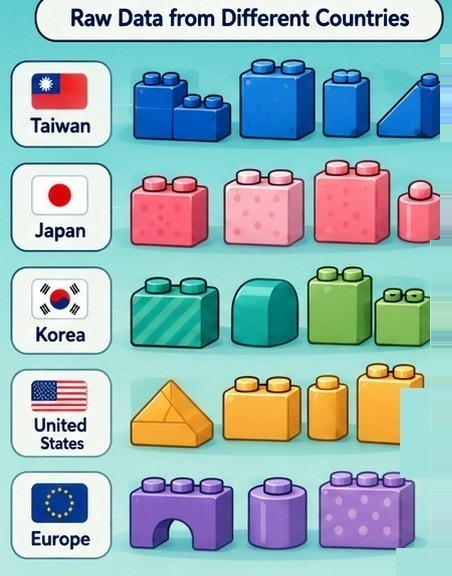
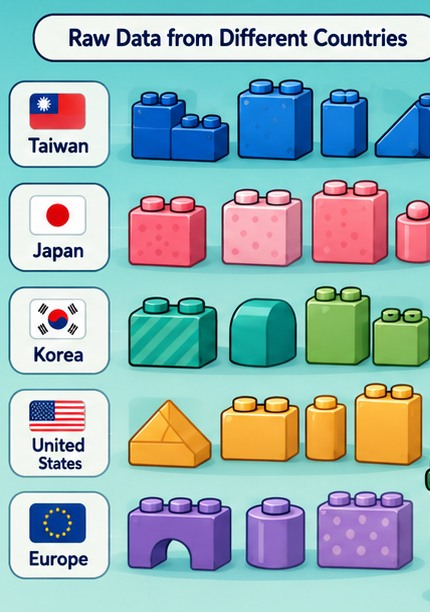
Re-crop CDM bricks cleanly from source; complete bricks, full title, no robot
Stop pixel-patching: recrop the raw-data card straight from pristine CDM1 (x14,y176 -> 430x612) so all five brick rows and the title pill are complete and the next-column robot/arrow are excluded. Remove the frame stud-dots for a clean plate; update image dimensions.

diff --git a/assets/css/styles.css b/assets/css/styles.css
@@ -451,13 +451,6 @@ main:focus { outline: none; }
   border: 2.5px solid var(--brick-edge, #0E3A66); border-radius: 18px;
   box-shadow: 0 14px 30px rgba(10,37,64,.14), 0 3px 0 rgba(10,37,64,.10);
   padding: 16px; }
-/* a neat, centred row of plate studs on top */
-.cdm-showcase::before { content: ""; position: absolute; top: -11px; left: 50%; transform: translateX(-50%);
-  width: min(64%, 320px); height: 15px; pointer-events: none;
-  background-repeat: repeat-x; background-position: center; background-size: 27px 15px;
-  background-image:
-    radial-gradient(circle at 13.5px 5px, rgba(255,255,255,.95) 0 2.4px, transparent 3px),
-    radial-gradient(circle at 13.5px 7.5px, #1f6fc0 0 6.4px, transparent 7px); }
 .cdm-showcase img { width: 100%; height: auto; display: block; border-radius: 12px;
   box-shadow: inset 0 0 0 1px rgba(10,37,64,.06); }
 .cdm-showcase figcaption { text-align: center; color: var(--muted); font-size: .92rem; margin-top: .75rem; }

diff --git a/methods.html b/methods.html
@@ -74,8 +74,8 @@
         <p class="lead">Every partner country brings its own set of bricks — different shapes, different colours.
           IMPRESIVE clicks them together into one shared build.</p>
       </div>
-      <figure class="cdm-showcase reveal" style="max-width:520px;margin:1.4rem auto 0">
-        <img src="assets/img/raw-bricks.jpg" width="452" height="576" loading="lazy"
+      <figure class="cdm-showcase reveal" style="max-width:440px;margin:1.4rem auto 0">
+        <img src="assets/img/raw-bricks.jpg" width="430" height="612" loading="lazy"
           alt="Raw data from different countries shown as assorted LEGO bricks — Taiwan (blue), Japan (pink), Korea (green), United States (orange) and Europe (purple), each a different shape and colour." />
         <figcaption>Raw data from each country arrives as different bricks — ready to be standardized and built together.</figcaption>
       </figure>